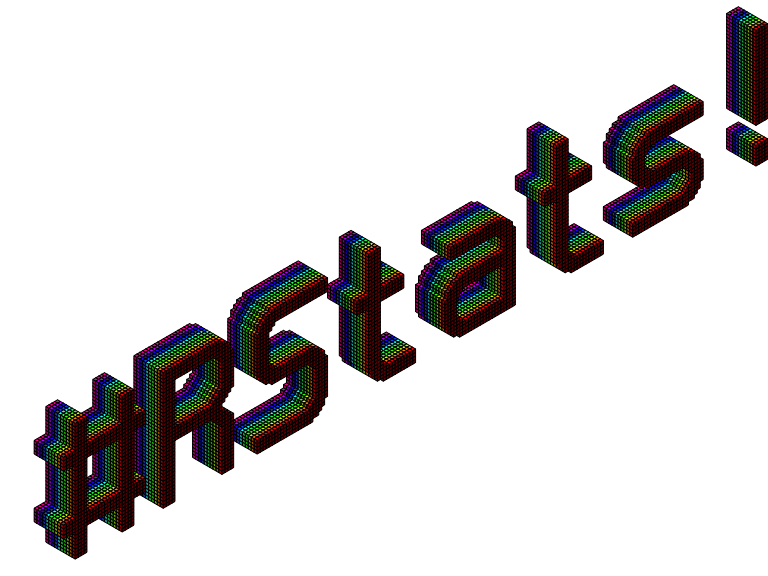
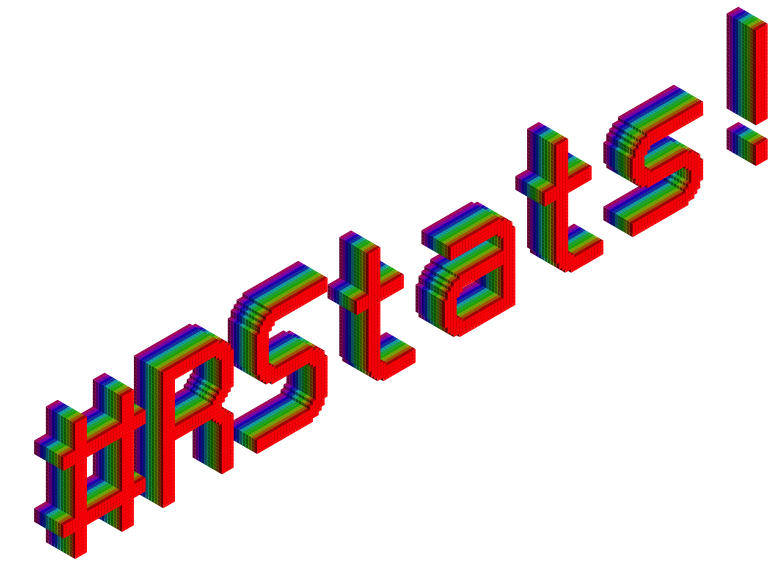
v0.1.3 more flexible lighting direction

Changed region(s): [[0.0312, 0.0, 1.0, 0.9688]]

diff --git a/README.md b/README.md
@@ -111,8 +111,8 @@ grid.newpage(); grid.draw(cubes)
 
 ``` r
 # VaporWave palette
-cubes <- isocubesGrob(coords, fill = '#ff71ce', fill_left = '#01cdfe',
-                      fill_right = '#05ffa1', ysize = 1/25)
+cubes <- isocubesGrob(coords, fill = '#ff71ce', fill2 = '#01cdfe',
+                      fill3 = '#05ffa1', ysize = 1/25)
 grid.newpage(); grid.draw(cubes)
 ```
 
@@ -122,8 +122,8 @@ grid.newpage(); grid.draw(cubes)
 # Nightmare palette
 cubes <- isocubesGrob(coords, 
                       fill = rainbow(nrow(coords)), 
-                      fill_left = 'hotpink',
-                      fill_right = viridisLite::inferno(nrow(coords)), 
+                      fill2 = 'hotpink',
+                      fill3 = viridisLite::inferno(nrow(coords)), 
                       ysize = 1/25, col = NA)
 grid.newpage(); grid.draw(cubes)
 ```
@@ -217,7 +217,7 @@ dim(col)  <- dim(ht)
 # convert to cubes and draw
 #~~~~~~~~~~~~~~~~~~~~~~~~~~~~~~~~~~~~~~~~~~~~~~~~~~~~~~~~~~~~~~~~~~~~~~~~~~~~~
 coords <- coords_heightmap(ht, col = col, ground = 'xy')
-cubes  <- isocubesGrob(coords, ysize = 1/130, fill = coords$col, col = NA)
+cubes  <- isocubesGrob(coords, ysize = 1/130, fill = coords$col, col = NA, light = 'right-top')
 grid.newpage(); grid.draw(cubes)
 ```
 
@@ -282,7 +282,7 @@ multiple_words <- purrr::map_dfr(seq(N), function(i) {
   single_word
 }) 
 
-cubes  <- isocubesGrob(multiple_words, ysize = 1/170, xo = 0.1, fill = multiple_words$col)
+cubes  <- isocubesGrob(multiple_words, ysize = 1/170, xo = 0.1, fill = multiple_words$col, light = 'right-top', col = NA)
 grid.newpage(); grid.draw(cubes)
 ```
 

diff --git a/NEWS.md b/NEWS.md
@@ -1,3 +1,8 @@
+# isocubes 0.1.3  2022-07-10
+
+* Added a `light` argument to specify lighting direction
+    * renamed `fill_left` and `fill_right` to `fill2` and `fill3` respectively
+
 # isocubes 0.1.2  2022-06-23
 
 * Replaced `max_y` argument with its inverse `ysize`
